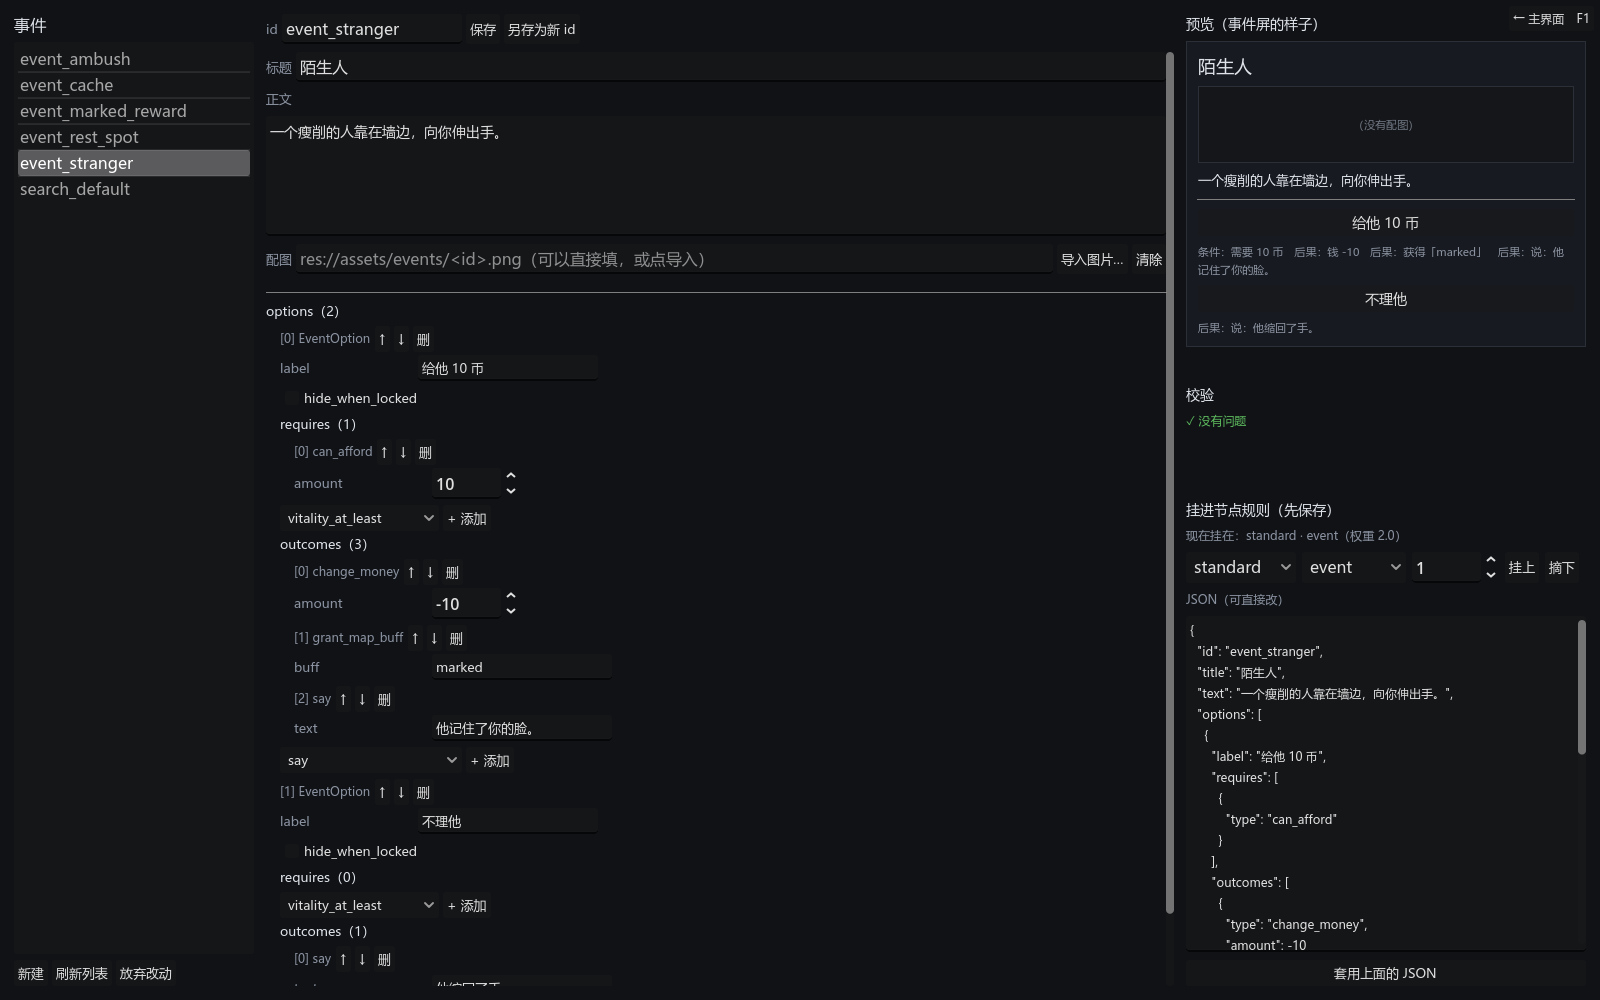
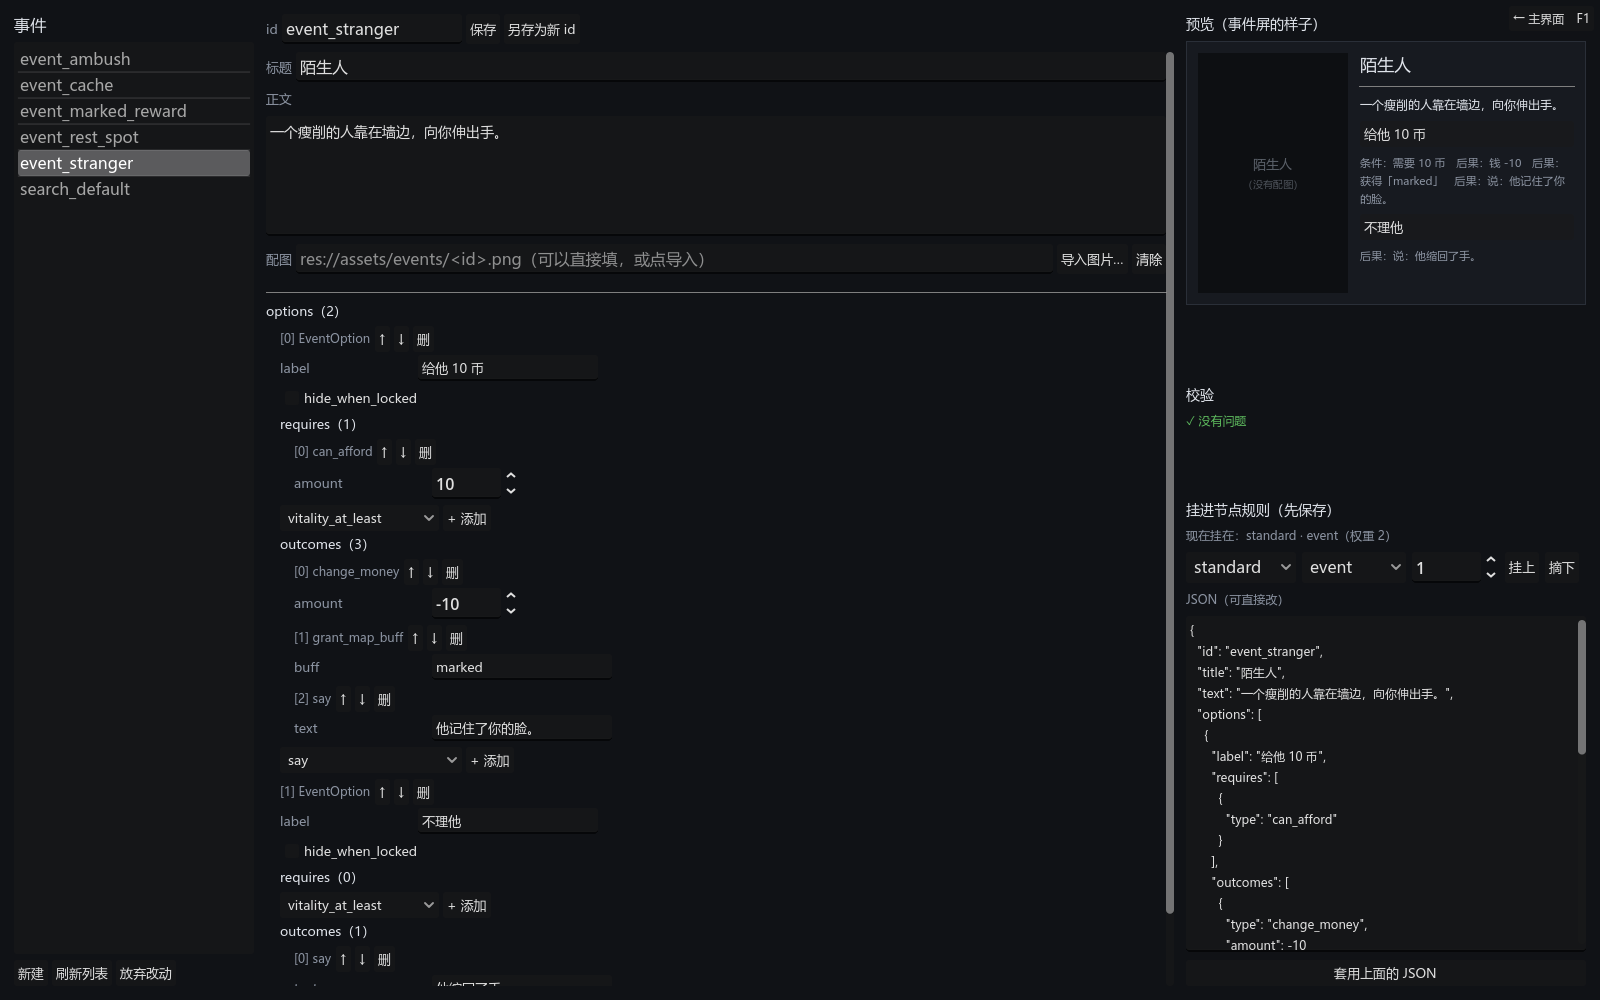
feat(ui): 事件屏改版 —— 两栏大框，左边整块是图，右边标题、正文、贴底选项（报告 065）
参考杀戮尖塔：1320×760 的框，左栏 640 宽铺满配图（按比例裁，没图深底色占位），
右栏标题、可滚正文、整行宽的选项，锁住的原因写在按钮底下；结果页同一个框、沿用该点事件的配图。
事件编辑器的预览改成同样的两栏。

Changed region(s): [[0.75, 0.062, 0.9688, 0.31], [0.75, 0.31, 0.8125, 0.341], [0.75, 0.062, 0.7812, 0.093]]

diff --git a/docs/architecture.md b/docs/architecture.md
@@ -1,6 +1,6 @@
 # 背包搜打撤 — 架构设计文档
 
-> 版本：v1.62 ｜ 引擎：Godot 4.7 (Forward+ / Jolt) ｜ 状态：M1～M6 落地，作者提议（058 / 059）按顺序实施中，第 7 阶段侵蚀未开始（现状见 [status.md](status.md)，变更记录见 16 节）
+> 版本：v1.63 ｜ 引擎：Godot 4.7 (Forward+ / Jolt) ｜ 状态：M1～M6 落地，作者提议（058 / 059）按顺序实施中，第 7 阶段侵蚀未开始（现状见 [status.md](status.md)，变更记录见 16 节）
 
 ## 0. 游戏概述
 
@@ -3387,6 +3387,7 @@ res://
 | v0.3 | 2026-09-20 | 取消自动寻路，移动一律单步；新增 `MoveIntent` 作为未来传送／定点移动的接入点；新增第 12 节「扩展机制的预留接口」与第 13 节「待确认事项」 |
 | v0.4 | 2026-09-20 | 依《背包乱斗》真实机制修正空间模型（详见报告 006）：移除装备栏；背包改为「棋盘 + 玩家放置包体」双层占用；新增暂存区（保留但不参战）；编译期邻接改为带约束的确定性插槽配对；冷却改用定点数以支持 ±2% 比例叠乘 |
 | v0.5 | 2026-09-20 | 修正 4.2：插槽点亮是**去重计数**而非二分匹配（v0.4 写复杂了）；补充插槽的数据形态与两种效果方向；新增 4.3「数值约定」，确定结算公式为「基础值 × ∏(1+乘区) + 固定加值」、乘区为可扩展枚举且只能末尾追加、全流程定点数四舍五入 |
+| v1.63 | 2026-09-23 | **事件屏改版**（报告 065，作者要求）。`event_screen` 选项页与结果页共用两栏大框（1320×760）：左栏 640 宽整块是图（铺满、按比例裁，没图就深底色占位），右栏标题、可滚正文、贴底的整行选项，锁住的原因写在按钮底下；结果页沿用该点事件的配图。编辑器预览同样两栏 |
 | v1.62 | 2026-09-23 | **事件编辑器**（报告 064，作者要求；10.5、11）。`ui/event_editor`：写文字、导入配图（复制到 `assets/events/<id>.<ext>`，`EventImage` 拿不到资源就按原始文件读，事件屏共用）、选项与条件 / 后果由 `PropertyForm` 反射生成、预览照事件屏画、挂进 `NodeRules.events_by_type`；校验与产出都走导入器（JSON + `.tres`），草稿缓存照道具编辑器。按性价比做在项目里而不是独立 exe：注册表、校验、id 表一行都不用复制，要独立就用导出预设 |
 | v1.61 | 2026-09-23 | **事件层与容器屏合一**（报告 063，058 / 059 顺序里的第 4 项；6.5 新增「事件层」、8 节流程图、10.1、11）。事件是内容（新种类 `events`：文字、图像占位、选项；选项的条件与后果是构件、走注册表两张新表）；`NodeRules.events_by_type` 按类型配，`EventPlacer` 生成时按 `content_seed` 定进节点、已有的不覆盖、随机点揭开后再配；`NodeEvents.handle` 变两段（`pending` / `event_pending` / `choose`），后果的旗子决定接下一个 / 开搜索 / 开店 / 开战 / 用过；等着选的跟着存档；**没有事件定义 = 老路**，现有套件一条不改；搜索点的「要不要搜」是默认事件 `search_default`；`GameFlow` 排事件屏、结果页插队首、队空了显示等着选的；战利品屏与搜索屏合成 `container_screen`；六个作者文件当内容占位 |
 | v1.60 | 2026-09-23 | **buff 骨架**（报告 062，058 / 059 顺序里的第 3 项；9.2、8.2、6.1、10.1）。效果树第四个分支 `RunEffect`（作用域 RUN）往 `RunContext` 里加数，五个构件（体力上限、开局钱、多搜几次、商店价、幸运）登记在注册表；`RunBuffDef`（内容种类 `run_buffs`）局外 / 一局同一套定义、`mods` / `rules` / `effects` 与套装档位同一种分法、`tags` 当标记、`duration_steps` 时限；`MetaState.active_buffs`（占位开关列表）开局记进 `RunState.meta_buffs`，`map_buffs` 每步递减；掉落上下文改由 `RunState._loot_context` 造：幸运从 buff 来，**道具 / 套装的战利品效果第一次真的接进一局**（9.2 说的那条查询此前没接） |

diff --git a/docs/reports/065-event-screen-layout.md b/docs/reports/065-event-screen-layout.md
@@ -1,0 +1,35 @@
+# 065 · 事件屏改版：两栏大框，左边整块是图（参考杀戮尖塔）
+
+> 作者要求 ｜ 架构文档 v1.63 ｜ 前一步：[064 事件编辑器](064-event-editor.md)
+
+作者：事件展示的窗口设计得更大一些，左边完全是图片区域，参考杀戮尖塔。
+
+![事件屏](images/065-event-screen.png)
+
+## 改了什么
+
+| 文件 | 改动 |
+|---|---|
+| `ui/game/event_screen.gd` | 选项页与结果页共用一个两栏的框 `_frame`：1320×760（视口 1600×1000），左栏 640 宽整块是图，右栏标题（28 号）、分隔线、可滚的正文（17 号）、贴底的选项（整行宽、左对齐、48 高）。锁住的选项灰掉，原因写在按钮底下一行小字。结果页沿用这个点的事件的配图 |
+| `ui/event_editor/event_editor.gd` | 预览改成同样的两栏（左图右文），和事件屏一个画法 |
+| `tests/test_event_editor.gd` | 预览里的按钮在右栏，递归找 |
+
+**图铺满左栏、按比例裁**（`EXPAND_IGNORE_SIZE` + `KEEP_ASPECT_COVERED`，容器裁边），所以任何比例的图都不会留边、也不会拉变形；
+美术定了尺寸规范之后不用改代码。没有图时左栏是深底色，中间淡淡写着事件标题和「没有配图」——占位也占满整栏，版式不因为缺图而塌。
+
+**结果页也是同一个框。** 选了之后的「做了什么」是同一件事的下一页，标题换成选的那一项，正文换成账目，底下一个「继续」；
+配图从这个点的事件里拿（`node.content["event"]` → 定义），老路的事件点没有定义就画占位。
+
+## 验证
+
+```
+bash tools/test.sh
+通过  7076 项断言，44 个套件
+```
+
+事件层与编辑器的套件照旧通过（页面的结构变了，公开动作 `choose` / `proceed` / `is_options_page` 没变）。截图：`DEMO_SCREEN=event`。
+
+## 没做的
+
+- 选项按钮还是引擎默认样式；杀戮尖塔那种带底纹的长条等美术。
+- 正文没有逐字出现的效果。

diff --git a/docs/status.md b/docs/status.md
@@ -1,6 +1,6 @@
 # 现状总览
 
-> 2026-09-23 ｜ `main`（M6 之后，058 / 059 实施中）｜ 架构文档 v1.62 ｜ 这是一份**活文档**：每完成一个里程碑更新一次，历史看 `docs/reports/`
+> 2026-09-23 ｜ `main`（M6 之后，058 / 059 实施中）｜ 架构文档 v1.63 ｜ 这是一份**活文档**：每完成一个里程碑更新一次，历史看 `docs/reports/`
 
 ## 一句话
 
@@ -21,6 +21,7 @@
 | M5 运行状态与存档 | 完成 | 051 | `RunState` 装壳、`RunRNG`、`RunSave`，读档之后接着走和没存过一样 |
 | M6 场景流 | 完成 | 055（规划 + M6-1）、056、057 | 纯逻辑状态机 `GameFlow` + 导演与十一屏（主场景换成正式游戏）；开局装备走管线；结算 `RunResult`、局外 `MetaState` / `MetaSave`；`LootView` 渐进揭示、亮出来的直接拖到棋盘、搜索点逐次装；仓库带进下一局（死了就没了）；撤离确认 |
 | 作者提议 058 / 059 | **进行中** | 058、059（提议）、060～063 | 1 暂存区按点清空 ✅（060）→ 2 仓库格子化、结算置入、图鉴 ✅（061）→ 3 buff 骨架 ✅（062）→ 4 事件层与容器屏合一 ✅（063）→ 5 开局预选与角色 → 6 搜索揭示 → 7 外框（可选） |
+| 事件屏改版 | 完成 | 065 | 两栏大框，左边整块是图（参考杀戮尖塔），右边标题、正文、贴底的选项 |
 | 事件编辑器 | 完成 | 064 | 写文字、导入配图、拼选项（条件 / 后果下拉来自注册表）、预览照事件屏画、挂进节点规则；存盘 = JSON + .tres；按性价比做在项目里而不是独立 exe |
 | 第 7 阶段 侵蚀 | 未开始 | — | `ErosionField` / `ErosionSchedule`，钩子与顺序已在 `MapTravel` 里定死 |
 | 第 8 阶段 内容扩充 | 未开始 | — | 道具、敌人、事件、新章节地图形态、扩展移动机制 |

diff --git a/docs/reports/README.md b/docs/reports/README.md
@@ -85,3 +85,4 @@
 | 062 | [buff 骨架：局外 buff 与地图 buff、效果树的 RUN 分支](062-run-buffs-skeleton.md) | 058 / 059 第 3 项 | 完成 |
 | 063 | [事件层：每个点先过事件屏、选项的条件与后果构件、容器屏合一](063-event-layer.md) | 058 / 059 第 4 项 | 完成 |
 | 064 | [事件编辑器：写文字、导入配图、拼选项、挂进节点规则](064-event-editor.md) | 作者要求 | 完成 |
+| 065 | [事件屏改版：两栏大框，左边整块是图](065-event-screen-layout.md) | 作者要求 | 完成 |
